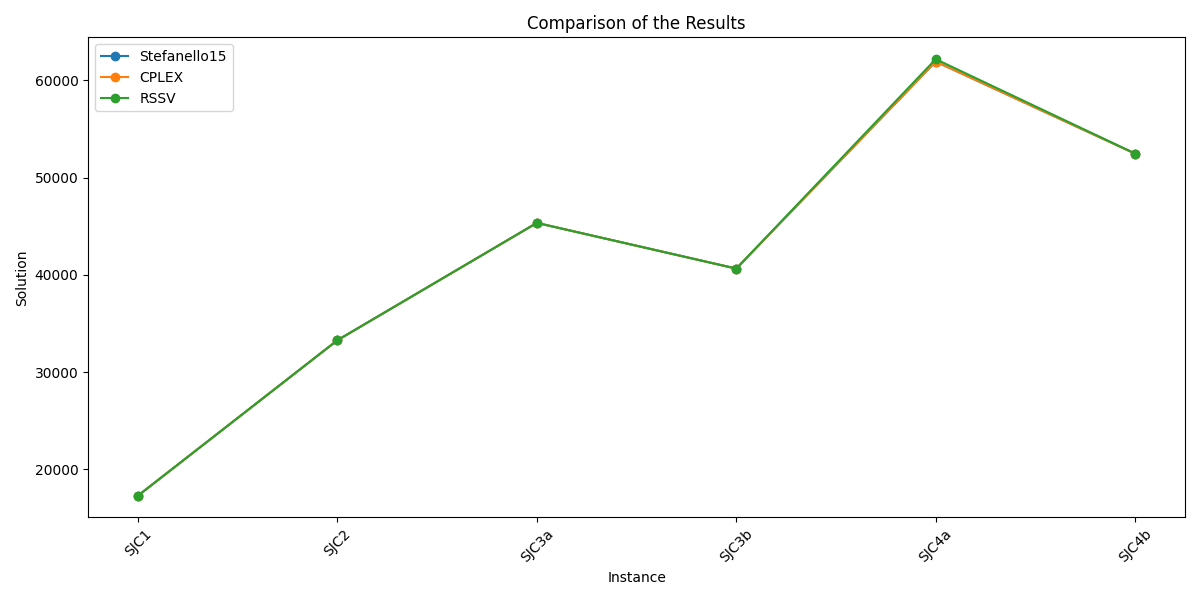
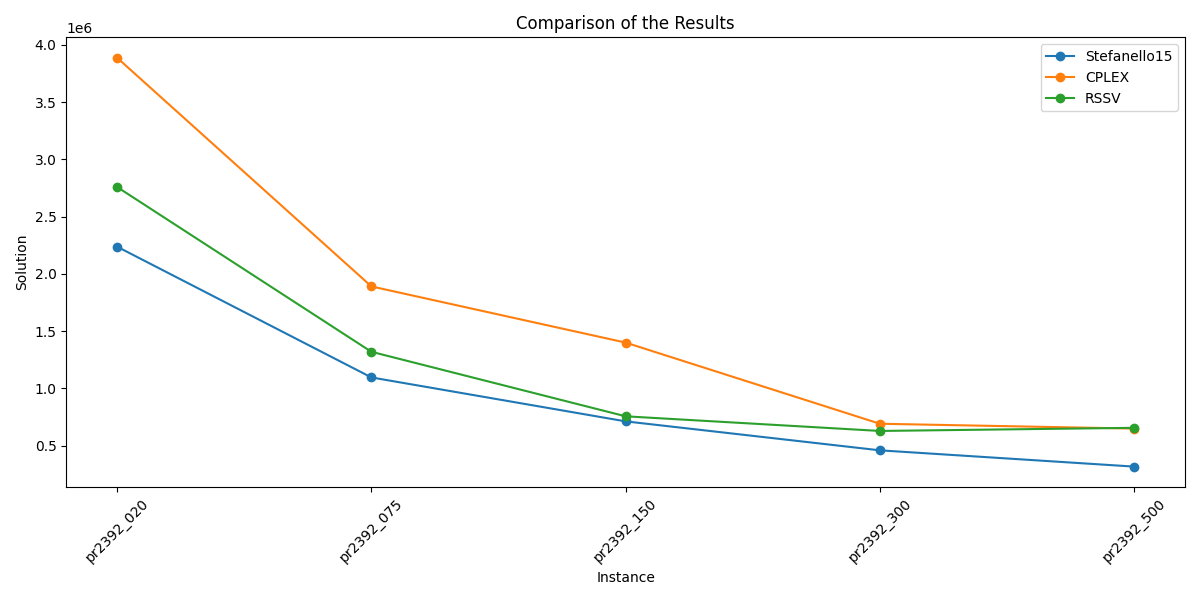
plot points locs and points sol lit

diff --git a/src/lit_plot_compare_points_locs.py b/src/lit_plot_compare_points_locs.py
@@ -1,0 +1,219 @@
+import os
+import re
+import csv
+import matplotlib.pyplot as plt
+
+# Directory where .out files are located
+directory_logs = '/home/falbuquerque/Documents/projects/Project_PMP/saves/SaveCluster/savecluster_Literature/2024-06-14_save-cluster/'
+# directory = '/home/falbuquerque/Documents/projects/Project_PMP/saves/SaveCluster/savecluster_Literature/artificial/'
+directory_sols = '/home/falbuquerque/Documents/projects/Project_PMP/large-PMP/data/Literature/solutions_lit/'
+loc_coord = '/home/falbuquerque/Documents/projects/Project_PMP/large-PMP/data/Literature/'
+
+# Regex patterns to match the required lines
+pattern_filtered_locations = re.compile(r'Filtered (\d+) locations: (.+)')
+pattern_instance = re.compile(r'service: (.+)')
+
+def map_group(instance):
+    if instance in ['SJC1', 'SJC2', 'SJC3a', 'SJC3b', 'SJC4a', 'SJC4b']:
+        return 'group2/'
+    if instance in ['p3038_600', 'p3038_700', 'p3038_800', 'p3038_900', 'p3038_1000']:
+        return 'group3/'
+    if instance in ['spain737_148_1', 'spain737_148_2', 'spain737_74_1', 'spain737_74_2']:
+        return 'group4/'
+    if instance in ['ali535_005', 'ali535_025', 'ali535_050', 'ali535_100', 'ali535_150', 
+                   'fnl4461_0020', 'fnl4461_0100', 'fnl4461_0250', 'fnl4461_0500', 'fnl4461_1000', 
+                   'lin318_005', 'lin318_015', 'lin318_040', 'lin318_070', 'lin318_100', 
+                   'pr2392_020', 'pr2392_075', 'pr2392_150', 'pr2392_300', 'pr2392_500', 
+                   'rl1304_010', 'rl1304_050', 'rl1304_100', 'rl1304_200', 'rl1304_300', 
+                   'u724_010', 'u724_030', 'u724_075', 'u724_125', 'u724_200']:
+        return 'group5/'
+
+def extract_information(file_path):
+    filtered_locations = None
+    instance = None
+    
+    with open(file_path, 'r') as f:
+        for line in f:
+            # Match filtered locations line
+            match_filtered = pattern_filtered_locations.match(line)
+            if match_filtered:
+                # Extract the number and the locations
+                num_locations = int(match_filtered.group(1))
+                filtered_locations = match_filtered.group(2).strip().split()
+                filtered_locations = list(map(int, filtered_locations))  # Convert strings to integers
+            
+            # Match instance line
+            match_instance = pattern_instance.match(line)
+            if match_instance:
+                instance = match_instance.group(1).strip()
+                
+            # If both are found, no need to continue
+            if filtered_locations is not None and instance is not None:
+                break
+    
+    return filtered_locations, instance
+
+def find_instance_file(directory, instance):
+    # Patterns for finding the instance file
+    pattern_solucao = rf'solucao\.{instance}_\d+\.txt'
+    pattern_soluOPT = rf'soluOPT\.{instance}_\d+\.txt'
+    
+    for filename in os.listdir(directory):
+        if re.match(pattern_solucao, filename) or re.match(pattern_soluOPT, filename):
+            return os.path.join(directory, filename)
+    
+    return None
+
+def extract_solution_literature(file_path_solutions_lit):
+    unique_values = []  # List to store unique values
+
+    with open(file_path_solutions_lit, 'r') as f:
+        lines = f.readlines()
+        for line in lines:
+            values = line.strip().split()
+            for value in values:
+                try:
+                    numeric_value = int(value.strip())  # Convert to int
+                    if numeric_value in unique_values:
+                        return unique_values  # Return if numeric_value is duplicated
+                    else:
+                        unique_values.append(numeric_value)  # Add to result list
+                except ValueError:
+                    pass  # Handle non-numeric values if needed
+
+    return unique_values
+
+def calculate_equal_percentage(filtered_locations, unique_values):
+    # Count how many unique values from filtered_locations are also in unique_values
+    count_equal = len(set(filtered_locations) & set(unique_values))
+    
+    # Total number of unique values
+    total_unique_values = len(unique_values)
+    
+    # Calculate percentage
+    if total_unique_values > 0:
+        percentage_equal = (count_equal / total_unique_values) * 100
+    else:
+        percentage_equal = 0.0
+    
+    return percentage_equal
+
+def plot_locations(filtered_locations, unique_values, loc_coord_instance, instance, percentage_equal):
+    # Read coordinates file
+    coords = {}
+    cust_weights = {}
+    with open(loc_coord_instance, 'r') as f:
+        next(f)  # Skip the header line
+        for line in f:
+            values = line.strip().split()
+            try:
+                loc_id = int(values[0])
+                cust_weights[loc_id] = float(values[1])
+                coords[loc_id] = (float(values[2]), float(values[3]))  # Coord_x, Coord_y
+            except ValueError:
+                pass  # Skip invalid lines
+    
+    # Prepare data for plotting
+    all_coords = list(coords.values())
+    filtered_coords = [coords[loc] for loc in filtered_locations if loc in coords]
+    unique_coords = [coords[loc] for loc in unique_values if loc in coords]
+    unique_only_coords = [coords[loc] for loc in unique_values if loc not in filtered_locations and loc in coords]
+
+    all_x, all_y = zip(*all_coords) if all_coords else ([], [])
+    filtered_x, filtered_y = zip(*filtered_coords) if filtered_coords else ([], [])
+    unique_x, unique_y = zip(*unique_coords) if unique_coords else ([], [])
+    unique_only_x, unique_only_y = zip(*unique_only_coords) if unique_only_coords else ([], [])
+
+    # Convert tuples to lists for concatenation
+    all_x, all_y = list(all_x), list(all_y)
+    filtered_x, filtered_y = list(filtered_x), list(filtered_y)
+    unique_x, unique_y = list(unique_x), list(unique_y)
+    unique_only_x, unique_only_y = list(unique_only_x), list(unique_only_y)
+
+    # Determine axis limits
+    delta = 0.05
+    x_min = min(all_x + filtered_x + unique_x + unique_only_x) - delta * min(all_x + filtered_x + unique_x + unique_only_x)
+    x_max = max(all_x + filtered_x + unique_x + unique_only_x) + delta * max(all_x + filtered_x + unique_x + unique_only_x)
+    y_min = min(all_y + filtered_y + unique_y + unique_only_y) - delta * min(all_y + filtered_y + unique_y + unique_only_y)
+    y_max = max(all_y + filtered_y + unique_y + unique_only_y) + delta * max(all_y + filtered_y + unique_y + unique_only_y)
+
+    # Create subplots
+    fig, axs = plt.subplots(1, 3, figsize=(22, 7))
+
+    # Plot all locations
+    axs[0].scatter(all_x, all_y, c='gray', label=f'{instance} - All Locations')
+    axs[0].set_title(f'All Locations ({len(all_coords)})')
+    axs[0].set_xlabel('Coord_x')
+    axs[0].set_ylabel('Coord_y')
+    axs[0].legend()
+    axs[0].set_xlim(x_min, x_max)
+    axs[0].set_ylim(y_min, y_max)
+
+    # Plot filtered locations
+    axs[1].scatter(filtered_x, filtered_y, c='blue', label=f'{instance} - Voted Locations')
+    axs[1].set_title(f'Filtered Locations ({len(filtered_coords)})')
+    axs[1].set_xlabel('Coord_x')
+    axs[1].set_ylabel('Coord_y')
+    axs[1].legend()
+    axs[1].set_xlim(x_min, x_max)
+    axs[1].set_ylim(y_min, y_max)
+
+    # Plot unique locations
+    axs[2].scatter(unique_x, unique_y, c='red', label=f'{instance} - Solution')
+    axs[2].scatter(unique_only_x, unique_only_y, c='green', label=f'{instance} - Solution Only')
+    axs[2].set_title(f'Unique Locations ({len(unique_coords)}) - Hit Rate: {percentage_equal:.2f}%')
+    axs[2].set_xlabel('Coord_x')
+    axs[2].set_ylabel('Coord_y')
+    axs[2].legend()
+    axs[2].set_xlim(x_min, x_max)
+    axs[2].set_ylim(y_min, y_max)
+
+    # Show plots
+    plt.tight_layout()
+    plt.savefig(f'./outputs/comparative_points_locs/{instance}_locations_plot.png')
+    plt.show()
+
+def process_out_files(directory_logs):
+
+    # create a filter to instances names to be processed
+    # filter_instances = ['SJC1', 'SJC2', 'SJC3a', 'SJC3b', 'SJC4a', 'SJC4b']
+    # filter_instances = ['pr2392_020', 'pr2392_075', 'pr2392_150', 'pr2392_300', 'pr2392_500']
+    filter_instances = ['pr2392_075']
+
+
+    for filename in os.listdir(directory_logs):
+        if filename.endswith(".out"):
+            file_path = os.path.join(directory_logs, filename)
+            filtered_locations, instance = extract_information(file_path)
+            
+            if filtered_locations and instance and instance in filter_instances:
+                print(f"File: {filename}")
+                print(f"Number of filtered locations: {len(filtered_locations)}")
+                print(f"instance: {instance}")
+                
+                # Find and open the corresponding instance file
+                file_path_solutions_lit = find_instance_file(directory_sols, instance)
+                if file_path_solutions_lit:
+                    solution_literature = extract_solution_literature(file_path_solutions_lit)
+                    print(f"Number of unique values found: {len(solution_literature)}")
+                    
+                    # Calculate percentage of equal values
+                    percentage_equal = calculate_equal_percentage(filtered_locations, solution_literature)
+                    print(f"Percentage of equal values: {percentage_equal:.2f}%")
+
+                    # Get coordinates from a file txt
+                    coord_filename = f'cust_weights_{instance}.txt'
+                    # Directory depends on the instance name
+                    group = map_group(instance)
+                    loc_coord_instance = os.path.join(loc_coord, group, coord_filename)
+
+                    # Plot the locations
+                    plot_locations(filtered_locations, solution_literature, loc_coord_instance, instance, percentage_equal)
+
+                else:
+                    print(f"No instance file found for instance: {instance}")
+                
+                print("--------------------------------")
+
+# Example usage
+process_out_files(directory_logs)

diff --git a/src/lit_compare_sols.py b/src/lit_compare_sols.py
@@ -43,12 +43,12 @@ def main():
     #                     'ali535_005', 'ali535_025', 'ali535_050', 'ali535_100', 'ali535_150', 
     #                     'u724_010', 'u724_030', 'u724_075', 'u724_125', 'u724_200', 
     #                     'rl1304_010', 'rl1304_050', 'rl1304_100', 'rl1304_200', 'rl1304_300']
-    filter_instances = ['SJC1', 'SJC2', 'SJC3a', 'SJC3b', 'SJC4a', 'SJC4b']
+    # filter_instances = ['SJC1', 'SJC2', 'SJC3a', 'SJC3b', 'SJC4a', 'SJC4b']
     # filter_instances = ['lin318_005', 'lin318_015', 'lin318_040', 'lin318_070', 'lin318_100']
     # filter_instances = [ 'ali535_005', 'ali535_025', 'ali535_050', 'ali535_100', 'ali535_150']
     # filter_instances = ['u724_010', 'u724_030', 'u724_075', 'u724_125', 'u724_200']
     # filter_instances = ['rl1304_010', 'rl1304_050', 'rl1304_100', 'rl1304_200', 'rl1304_300']
-    # filter_instances = ['pr2392_020', 'pr2392_075', 'pr2392_150', 'pr2392_300', 'pr2392_500']
+    filter_instances = ['pr2392_020', 'pr2392_075', 'pr2392_150', 'pr2392_300', 'pr2392_500']
     # filter_instances = ['fnl4461_0020', 'fnl4461_0100', 'fnl4461_0250', 'fnl4461_0500', 'fnl4461_1000']
     # filter_instances = ['p3038_600', 'p3038_700', 'p3038_800', 'p3038_900', 'p3038_1000']
     # filter_instances = ['fnl4461_0020', 'fnl4461_0100', 'fnl4461_0250', 'fnl4461_0500', 'fnl4461_1000']
